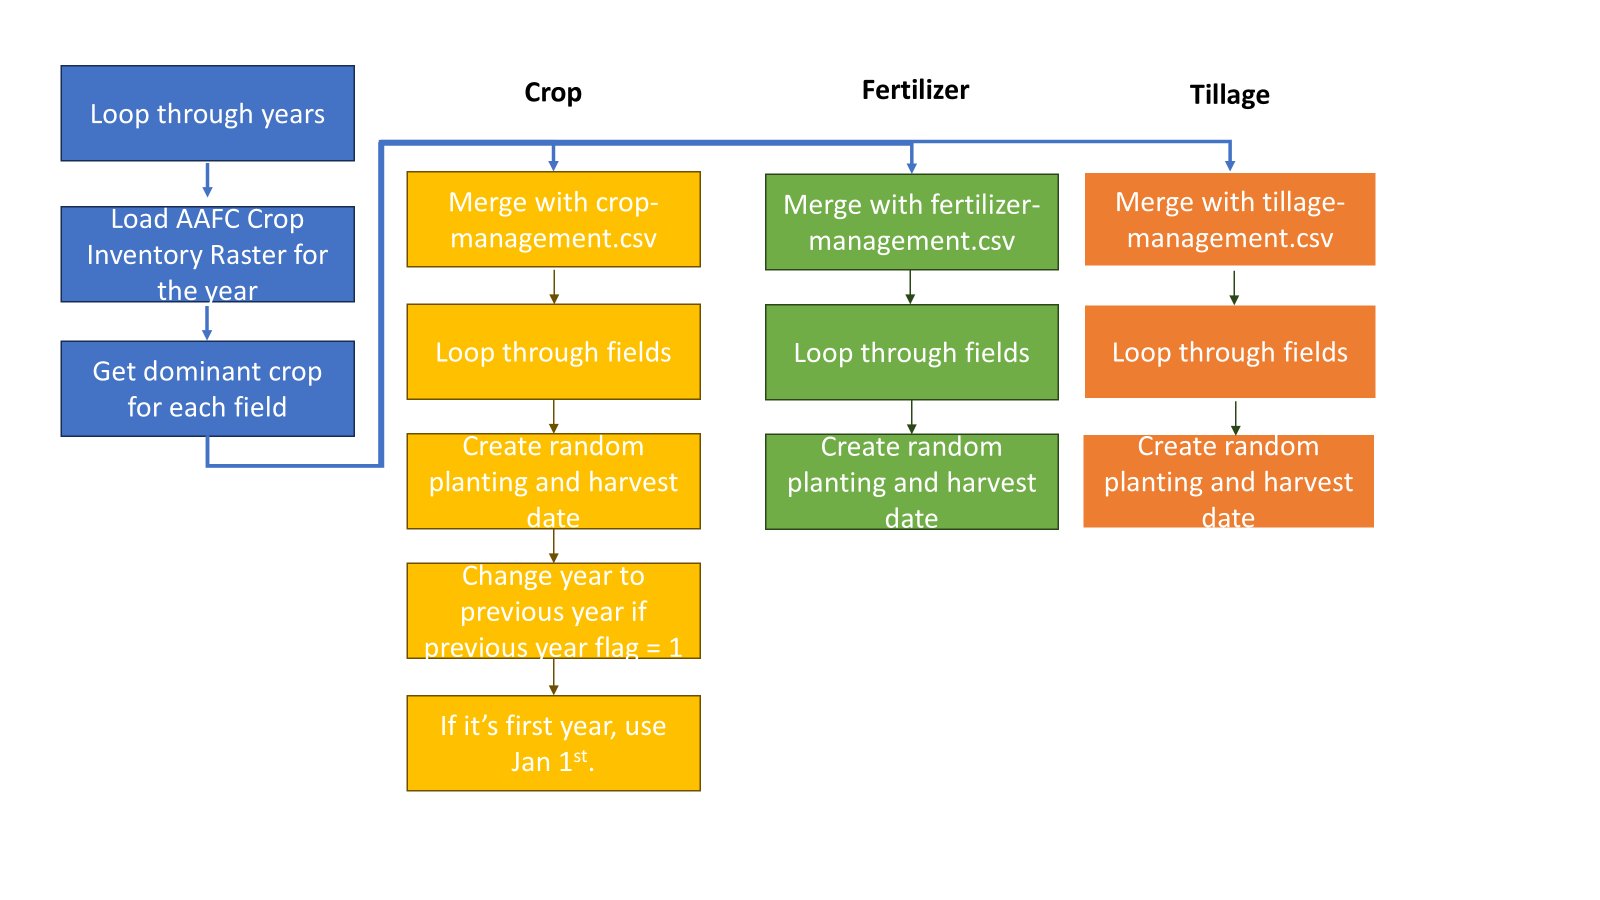
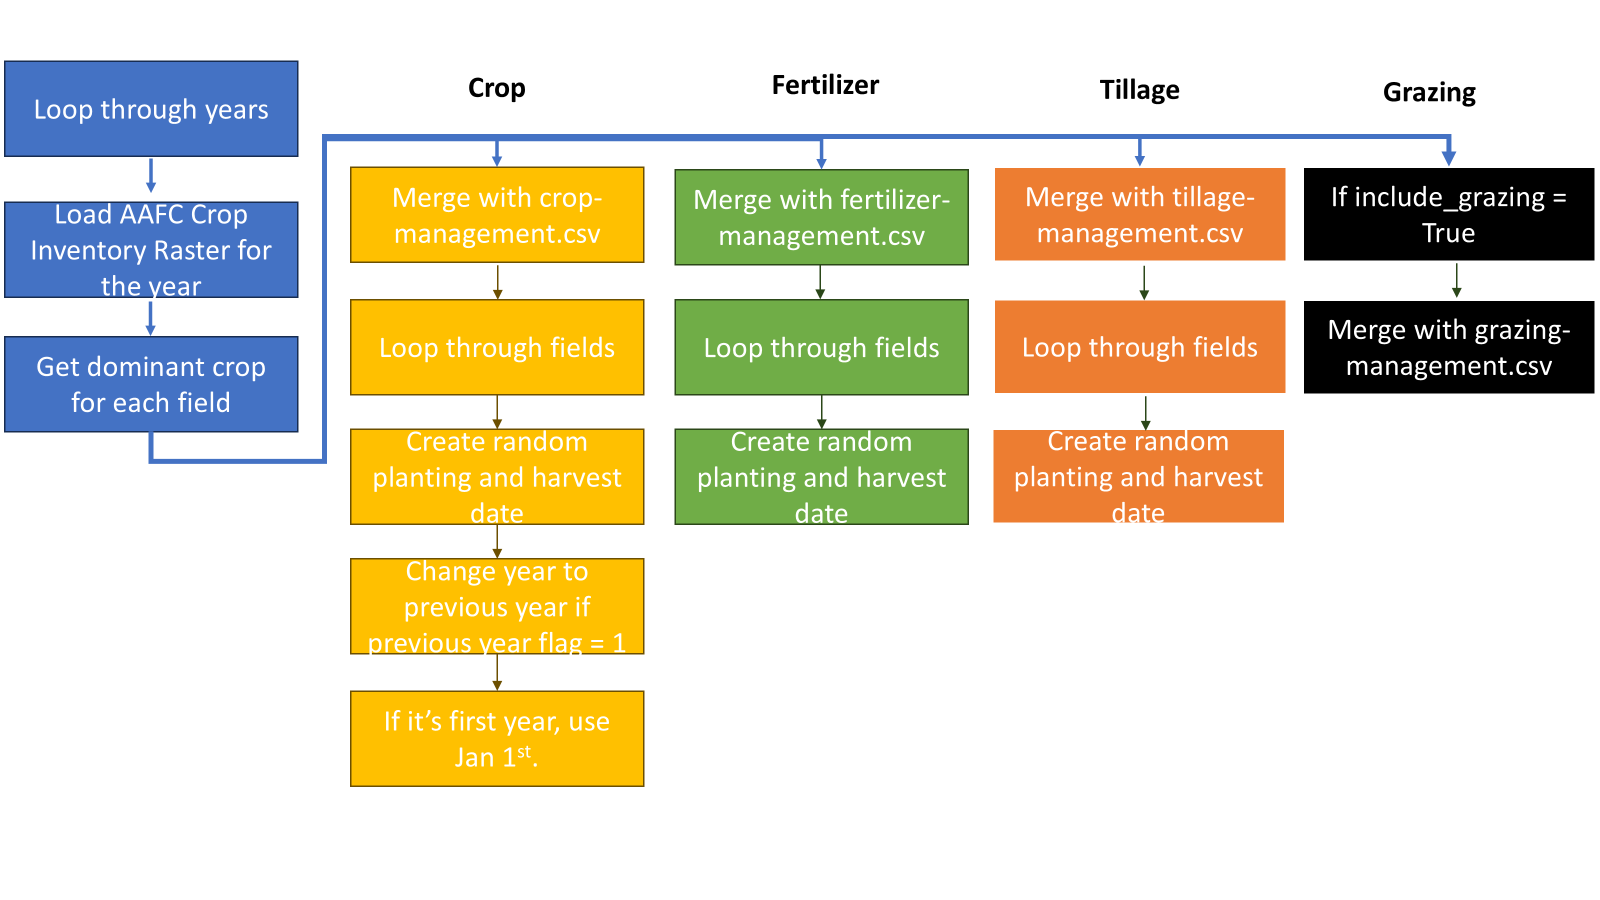
Built site for gh-pages

Changed region(s): [[0.0, 0.0622, 1.0, 0.9022]]

diff --git a/bmps/12_crop_management.html b/bmps/12_crop_management.html
@@ -452,6 +452,64 @@ include_grazing = False</code></pre>
 </tr>
 </tbody>
 </table></li>
+<li><p><strong>grazing-management.csv</strong></p>
+<table class="caption-top table">
+<colgroup>
+<col style="width: 6%">
+<col style="width: 6%">
+<col style="width: 6%">
+<col style="width: 6%">
+<col style="width: 6%">
+<col style="width: 6%">
+<col style="width: 6%">
+<col style="width: 6%">
+<col style="width: 6%">
+<col style="width: 6%">
+<col style="width: 6%">
+<col style="width: 6%">
+<col style="width: 6%">
+<col style="width: 6%">
+<col style="width: 6%">
+</colgroup>
+<thead>
+<tr class="header">
+<th>CropCode</th>
+<th>GraMon</th>
+<th>GraDay</th>
+<th>Days</th>
+<th>Ani_ID</th>
+<th>Ani_adult</th>
+<th>GR_Density</th>
+<th>DayFra</th>
+<th>Source</th>
+<th>Dugout_ID</th>
+<th>Access</th>
+<th>Fencing</th>
+<th>StreamAniPerc</th>
+<th>Drinking_time</th>
+<th>BankK_Change</th>
+</tr>
+</thead>
+<tbody>
+<tr class="odd">
+<td>12</td>
+<td>5</td>
+<td>1</td>
+<td>180</td>
+<td>2</td>
+<td>100</td>
+<td>1</td>
+<td>1</td>
+<td>1</td>
+<td>0</td>
+<td>0</td>
+<td>0</td>
+<td>0</td>
+<td>0.02</td>
+<td>0.3</td>
+</tr>
+</tbody>
+</table></li>
 </ul>
 </section>
 <section id="random-date" class="level2">